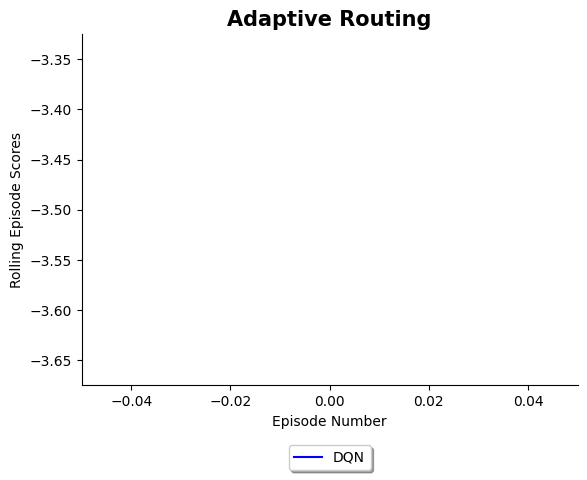
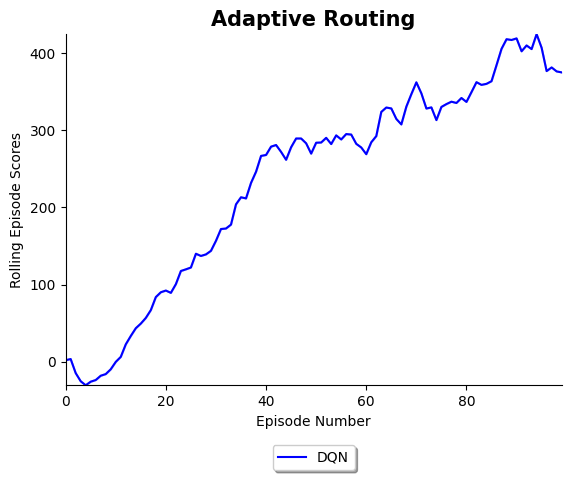
tensorboard logging added

diff --git a/environments/Adaptive_Routing_Environment.py b/environments/Adaptive_Routing_Environment.py
@@ -20,7 +20,7 @@ import math
 class Adaptive_Routing_Environment(gym.Env):
 	environment_name = "Adaptive Routing"
 
-	def __init__(self,dim,encode,Num_Flows,skip_routing,random_trips,Max_Sim_Time,device,Log,rolling_window):
+	def __init__(self,dim,encode,embed_press,Num_Flows,skip_routing,random_trips,Max_Sim_Time,device,Log,rolling_window):
 
 
 		Adaptive_Routing_Environment.eng = cityflow.Engine("environments/3x3/config.json", thread_num=8)
@@ -47,7 +47,7 @@ class Adaptive_Routing_Environment(gym.Env):
 		}
 		self.dim=dim
 		
-		self.utils=Utils(dim=dim,environment=self,encode=encode,Num_Flows=Num_Flows,valid_dic=self.lanes_dic)
+		self.utils=Utils(dim=dim,environment=self,encode=encode,Num_Flows=Num_Flows,valid_dic=self.lanes_dic,device=device)
 
 
 		self.stochastic_actions_probability = 0
@@ -64,6 +64,7 @@ class Adaptive_Routing_Environment(gym.Env):
 		self.iteration=-1
 		self.manual_drive=False
 		self.random_trips=random_trips
+		self.embed_press=embed_press
 
 
 	def reset(self,episode):
@@ -99,6 +100,7 @@ class Adaptive_Routing_Environment(gym.Env):
 		self.dones=[]	
 		
 	def step(self,actions):
+
 		if self.Log:
 			print("Simulation Time: :{:.2f}".format(self.eng.get_current_time()))
 
@@ -107,7 +109,8 @@ class Adaptive_Routing_Environment(gym.Env):
 				actions[i]=self.manual_drive_route[self.iteration]
 		
 		self.set_route(self.trans_vehicles,actions)	
-		
+		# ---------------------------------------------
+
 		self.eng.next_step()
 		self.utils.update_pressure_matrix()
 
@@ -119,6 +122,7 @@ class Adaptive_Routing_Environment(gym.Env):
 		eng_vehicles_dic=self.get_engine_vehicles_dic()
 		self.update_env_vehicles(eng_vehicles_dic)
 		# ---------------------------------------------
+
 		for vc in eng_vehicles_dic:
 			if self.is_autonomus_off(vc) or not self.is_trans(vc):
 				continue
@@ -141,7 +145,7 @@ class Adaptive_Routing_Environment(gym.Env):
 	def set_route(self,VCs,ACTs):
 		for vc,act in zip(VCs,ACTs):
 			current_road=self.vehicles[vc]["memory0"]["road"]
-			next_road=self.get_next_road(vc,act)
+			next_road=self.utils.get_next_road(vc,act)
 			road="road_"+str(next_road[0])+"_"+str(next_road[1])+"_"+str(next_road[2])
 			routing_complete=self.eng.set_vehicle_route(vc,[road])
 			self.vehicles[vc]["memory0"]["action"]=act
@@ -162,6 +166,9 @@ class Adaptive_Routing_Environment(gym.Env):
 				reward)
 		
 		state=self.vehicles[vc]["memory2"]["state"]
+		action=self.vehicles[vc]["memory2"]["action"]
+		next_state=self.vehicles[vc]["memory1"]["state"]
+
 		road_id=self.utils.state2road(state)
 		try:
 			assert(road_id in self.lanes_dic)
@@ -169,8 +176,7 @@ class Adaptive_Routing_Environment(gym.Env):
 			breakpoint()
 		
 		self.states.append(state)
-		self.acts.append(self.vehicles[vc]["memory2"]["action"])
-		next_state=self.vehicles[vc]["memory1"]["state"]
+		self.acts.append(action)
 		self.next_states.append(next_state)
 		self.rewds.append(reward)
 		self.dones.append(done)
@@ -190,16 +196,18 @@ class Adaptive_Routing_Environment(gym.Env):
 		if self.is_new(vc):
 			if self.Log:
 				print("vehicle "+vc+" entered simulation")
-			
+			destination=self.utils.get_destination(vc)
+			source=self.utils.get_road(vc)
 			self.vehicles[vc]={
-			"destination": self.get_destination(vc),
+
+			"destination": destination,
 			"enter time": self.eng.get_current_time(),
 			"memory0":{
-				"road":self.get_road(vc),
+				"road":source,
 				"action":None,
 				"reward":None,
-				"state":None,
-				"valid": self.utils.check_valid(self.get_road(vc))
+				"state":self.utils.get_state(source,destination,self.embed_press,vehicle_id=vc),
+				"valid": self.utils.check_valid(source)
 			},
 			"memory1":None,
 			"memory2":None
@@ -212,8 +220,10 @@ class Adaptive_Routing_Environment(gym.Env):
 			try:
 				self.vehicles[vc]["memory2"]=None if self.vehicles[vc]["memory1"]==None else self.vehicles[vc]["memory1"].copy()
 				self.vehicles[vc]["memory1"]=self.vehicles[vc]["memory0"].copy()
-				self.vehicles[vc]["memory0"]["road"]=self.get_road(vc)
-				self.vehicles[vc]["memory0"]["state"]=self.utils.reshape(self.get_state(vc,"memory0"),vc)
+				source=self.utils.get_road(vc)
+				destination=self.vehicles[vc]["destination"]
+				self.vehicles[vc]["memory0"]["road"]=source
+				self.vehicles[vc]["memory0"]["state"]=self.utils.get_state(source,destination,self.embed_press,vehicle_id=vc)
 			except Exception as e:
 				breakpoint()
 
@@ -224,11 +234,7 @@ class Adaptive_Routing_Environment(gym.Env):
 			breakpoint()
 		self.trans_vehicles.append(vc)
 		state=self.vehicles[vc]["memory0"]["state"]
-		self.trans_vehicles_states.append(self.state2torch(state))
-
-	def state2torch(self,state,vc):
-		state=torch.tensor(state, device=self.device, dtype=torch.float)
-		return state
+		self.trans_vehicles_states.append(self.utils.state2torch(state))
 
 	def get_reward(self,vc):
 		road=self.vehicles[vc]["memory2"]["road"]
@@ -275,10 +281,6 @@ class Adaptive_Routing_Environment(gym.Env):
 		self.np_random, seed = seeding.np_random(seed)
 		return [seed]
 	
-	def is_rewardable(self,vc):
-		
-		return vc in self.vehicles and "action" in self.vehicles[vc]
-	
 	def is_terminal(self):
 		
 		return self.eng.get_vehicle_count==0 or self.eng.get_current_time()==self.Max_Sim_Time
@@ -292,36 +294,9 @@ class Adaptive_Routing_Environment(gym.Env):
 		return vc not in self.vehicles
 
 	def is_trans(self,vc):
-		return self.is_new(vc) or self.get_road(vc) != self.vehicles[vc]["memory0"]["road"]
+		return self.is_new(vc) or self.utils.get_road(vc) != self.vehicles[vc]["memory0"]["road"]
 
 	def get_engine_vehicles_dic(self):
 		
 		return self.eng.get_vehicle_speed()
 
-	def get_road(self,vc):
-		derivable=list(map(int,self.eng.get_vehicle_info(vc)["drivable"].split('_')[1:5]))
-		road=self.utils.derivable2road(derivable)
-		return road
-	
-	def get_next_road(self,vc,action):
-		derivable=self.get_road(vc)+[action]
-		road=self.utils.derivable2road(derivable)
-		return road
-
-	def get_destination(self,vc):
-		path=self.eng.get_vehicle_info(vc)["route"].split()
-		destination=path[len(path)-1]
-		destination=list(map(int,destination.split('_')[1:4]))
-		return destination
-
-	def get_state(self,vc,memory):
-		source=self.vehicles[vc][memory]["road"]
-		destination=self.vehicles[vc]["destination"]
-		state=source+destination
-		return state
-
-	def get_next_state(self,vc):
-		source=self.vehicles[vc]["next_road"]
-		destination=self.vehicles[vc]["destination"]
-		state=source+destination
-		return state

diff --git a/environments/Utils.py b/environments/Utils.py
@@ -5,7 +5,7 @@ import random
 
 class Utils(object):
 	"""docstring for Utils"""
-	def __init__(self,environment,encode,dim,Num_Flows,valid_dic):
+	def __init__(self,environment,encode,dim,Num_Flows,valid_dic,device):
 		super(Utils, self).__init__()
 		self.valid_dic=valid_dic
 		self.dim=dim
@@ -55,6 +55,7 @@ class Utils(object):
 		self.Num_Flow_Types=3
 		self.slow_vc_speed=7
 		self.fast_vc_speed=2*self.slow_vc_speed
+		self.device=device
 
 
 
@@ -151,12 +152,11 @@ class Utils(object):
 			intersec=self.change_position(intersec,dir)
 			return intersec+[dir]
 			
-	def reshape(self,state,vehicle_id,embed_press):
-		# breakpoint()
-		current_road=self.res_road(state[:3])
-		destination=self.res_road(state[3:])
+	def get_state(self,origin,destination,embed_press,vehicle_id):
+		reshaped_origin=self.res_road(origin)
+		reshaped_destination=self.res_road(destination)
 		if embed_press:
-			press_embd=self.get_press_embd(state[:3])
+			press_embd=self.get_press_embd(origin)
 		else:
 			press_embd=[0]* self.press_embd_dim
 		
@@ -165,8 +165,7 @@ class Utils(object):
 		flow_type=self.flow_types_dic[self.get_flow_id(vehicle_id)]
 		one_hot_flow_type[flow_type]=1
 
-		# breakpoint()
-		return current_road+destination+press_embd+one_hot_flow_type
+		return reshaped_origin+reshaped_destination+press_embd+one_hot_flow_type
 
 	def get_state_diminsion(self):
 		if self.encode=="full_one_hot":
@@ -245,37 +244,24 @@ class Utils(object):
 
 
 	def get_press_embd(self,road):
-		press_embd=[]
+		press_embd=[0]*self.press_embd_dim
 
 		nroad=self.move(road,0)
 		nroad=[x-1 for x in nroad]
-
-		try:
-			press_embd.append(self.pressure_matrix[nroad[0]][nroad[1]])
-		except Exception as e:
-			print (e)
-			breakpoint()
-
+		if nroad[0]<self.dim and nroad[1]<self.dim:
+			press_embd[0]=self.pressure_matrix[nroad[0]][nroad[1]]
 
 		nroad=self.move(road,1)
 		nroad=[x-1 for x in nroad]
-		try:
-			press_embd.append(self.pressure_matrix[nroad[0]][nroad[1]])
-		except Exception as e:
-			print (e)
-			breakpoint()
-		
+		if nroad[0]<self.dim and nroad[1]<self.dim:
+			press_embd[0]=self.pressure_matrix[nroad[0]][nroad[1]]
 
 		nroad=self.move(road,2)
 		nroad=[x-1 for x in nroad]
-		try:
-			press_embd.append(self.pressure_matrix[nroad[0]][nroad[1]])
-		except Exception as e:
-			print (e)
-			breakpoint()
+		if nroad[0]<self.dim and nroad[1]<self.dim:
+			press_embd[0]=self.pressure_matrix[nroad[0]][nroad[1]]
 
 
-		# breakpoint()
 		return press_embd
 
 	def update_pressure_matrix(self):
@@ -339,3 +325,26 @@ class Utils(object):
 			pressure-=self.vc_count_dic[self.road2int(road)]
 
 		return pressure
+
+	def get_next_road(self,vc,action):
+		derivable=self.get_road(vc)+[action]
+		road=self.derivable2road(derivable)
+		return road
+
+
+	def get_road(self,vc):
+		derivable=list(map(int,self.environment.eng.get_vehicle_info(vc)["drivable"].split('_')[1:5]))
+		road=self.derivable2road(derivable)
+		return road
+	
+
+
+	def get_destination(self,vc):
+		path=self.environment.eng.get_vehicle_info(vc)["route"].split()
+		destination=path[len(path)-1]
+		destination=list(map(int,destination.split('_')[1:4]))
+		return destination
+
+	def state2torch(self,state):
+		state=torch.tensor(state, device=self.device, dtype=torch.float)
+		return state

diff --git a/agents/Base_Agent.py b/agents/Base_Agent.py
@@ -12,6 +12,7 @@ from nn_builder.pytorch.NN import NN
 # from torch.optim import optimizer as optim
 import torch.optim as optim
 from utilities.data_structures.Replay_Buffer import Replay_Buffer
+from torch.utils.tensorboard import SummaryWriter
 
 class Base_Agent(object):
 
@@ -46,6 +47,7 @@ class Base_Agent(object):
         gym.logger.set_level(40)  # stops it from printing an unnecessary warning
         self.log_game_info()
         self.lanes_dic=config.environment.lanes_dic
+        self.summ_writer = SummaryWriter()
 
     def get_environment_title(self):
         """Extracts name of environment from it"""
@@ -264,6 +266,8 @@ class Base_Agent(object):
 
                 for agent_id in self.agent_dic:
                     # BUG: when memory is full the rate of the exploration stalls decreasing
+                    self.summ_writer.add_scalar('Memory_Length/'+str(agent_id),self.agent_dic[agent_id]["memory"].__len__(),self.env_episode_number)
+
                     if self.agent_dic[agent_id]["total_exp_count"]<self.agent_dic[agent_id]["memory"].__len__():
                         self.agent_dic[agent_id]["total_exp_count"]=self.agent_dic[agent_id]["memory"].__len__()
                         self.agent_dic[agent_id]["episode_number"]+=1
@@ -277,6 +281,7 @@ class Base_Agent(object):
         time_taken = time.time() - start
         if show_whether_achieved_goal: self.show_whether_achieved_goal()
         if self.config.save_model: self.locally_save_policy()
+        self.summ_writer.close()
         return self.game_full_episode_scores, self.rolling_results, time_taken
 
     def run(self):

diff --git a/results/Adaptive_Routing.py b/results/Adaptive_Routing.py
@@ -33,13 +33,13 @@ device = torch.device("cuda" if torch.cuda.is_available() else "cpu") #device is
 config = Config()
 config.seed = 1
 
-config.environment = Adaptive_Routing_Environment(dim=3,encode="one_hot",Num_Flows=1,skip_routing=[],random_trips=True,Max_Sim_Time=600,device=device,Log=False,rolling_window=10)
+config.environment = Adaptive_Routing_Environment(dim=3,encode="one_hot", embed_press=True ,Num_Flows=5,skip_routing=[],random_trips=True,Max_Sim_Time=600,device=device,Log=False,rolling_window=10)
 # breakpoint()
 # num_possible_states =config.environment.utils.get_state_diminsion()
 # embedding_dimensions = [[num_possible_states, 20]]
 # print("Num possible states ", num_possible_states)
 
-config.num_episodes_to_run = 1
+config.num_episodes_to_run = 100
 config.file_to_save_data_results = "Data_and_Graphs/Adaptive_Routing.pkl"
 config.file_to_save_results_graph = "Data_and_Graphs/Adaptive_Routing.png"
 config.show_solution_score = False

diff --git a/agents/DQN_agents/DQN_multi_agent.py b/agents/DQN_agents/DQN_multi_agent.py
@@ -59,6 +59,9 @@ class DQN(Base_Agent):
         for _ in range(self.hyperparameters["learning_iterations"]):
             states, actions, rewards, next_states, dones = self.sample_experiences(memory) #Sample experiences
             loss = self.compute_loss(agent_id, states, next_states, rewards, actions, dones)
+            self.summ_writer.add_scalar('Loss/'+str(agent_id),loss,self.env_episode_number)
+            
+            # writer.add_scalar('Loss/train', np.random.random(), n_iter)
             actions_list = [action_X.item() for action_X in actions ]
             self.logger.info("Action counts {}".format(Counter(actions_list)))
             self.take_optimisation_step(agent_id, loss, self.hyperparameters["gradient_clipping_norm"])
